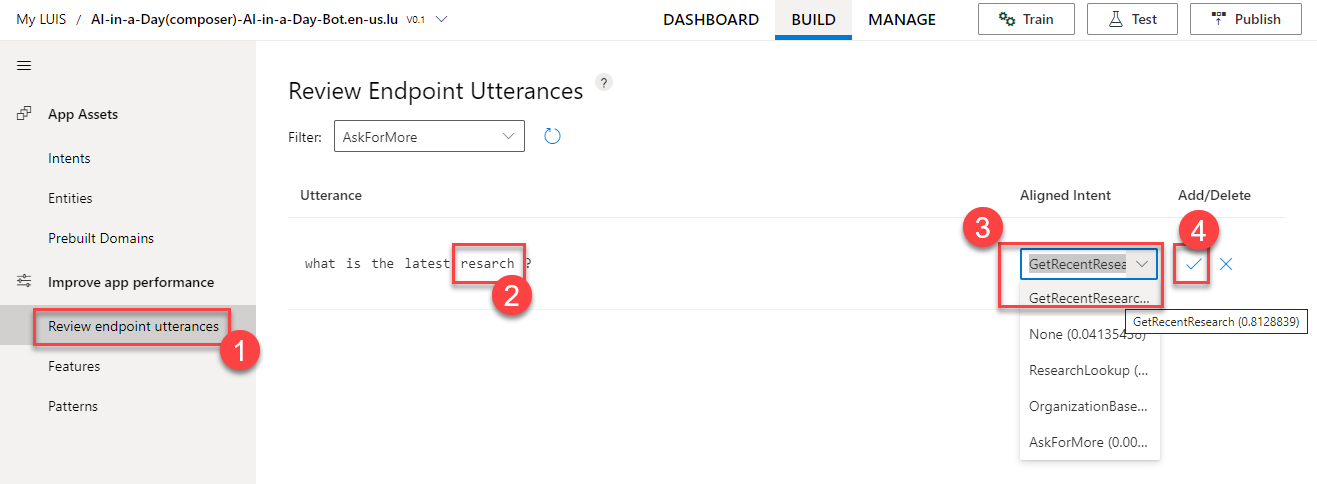
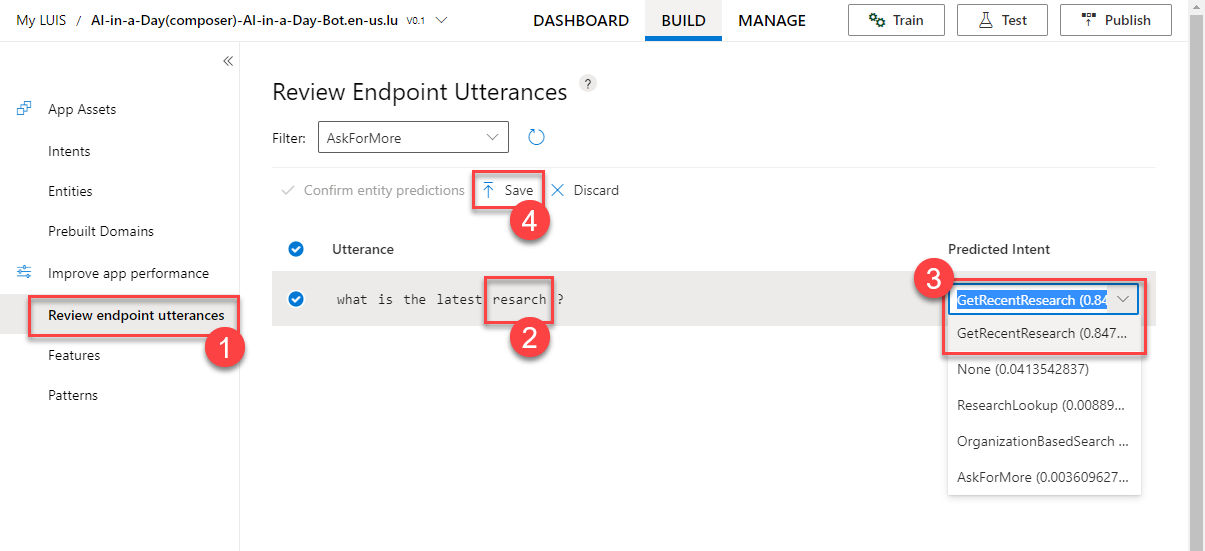
LUIS UI Change Implemented for Lab 5

diff --git a/05-conversational-ai/README.md b/05-conversational-ai/README.md
@@ -248,7 +248,7 @@ Our Bot is now using a **Regular expression recognizer** as its Language Underst
 
      ![A list of entities is presented. Entity type "machine learned" is highlighted.](media/luis-portal-entity-list.png)
 
-17. Select the **Review endpoint utterances (1)** page in the portal. This is where we can see a list of utterances users wrote and LUIS predicted, but they are outside the original utterance list we provided. In this case, LUIS did a great job predicting that the `What is the latest resarch?` message was targeting the **GetRecentResearch** intent. We can select the approve this prediction by selecting the **Add** button **(4)**. If LUIS had chosen a wrong intent we could change the aligned intent and give our approval to help LUIS learn and improve its predictions.
+17. Select the **Review endpoint utterances (1)** page in the portal. This is where we can see a list of utterances users wrote and LUIS predicted, but they are outside the original utterance list we provided. In this case, LUIS did a great job predicting that the `What is the latest resarch?` message was targeting the **GetRecentResearch** intent. We can change the predicted intent if needed and select the **Save** button **(4)** to add the new utterance for future training. This will help LUIS learn and improve its predictions.
 
      ![Review endpoint utterances page is open. The message with the typo is highlighted. Aligned intent is shown as GetRecentResearch. Checkmark button is highlighted.](media/luis-portal-review-utterance.png)
 
